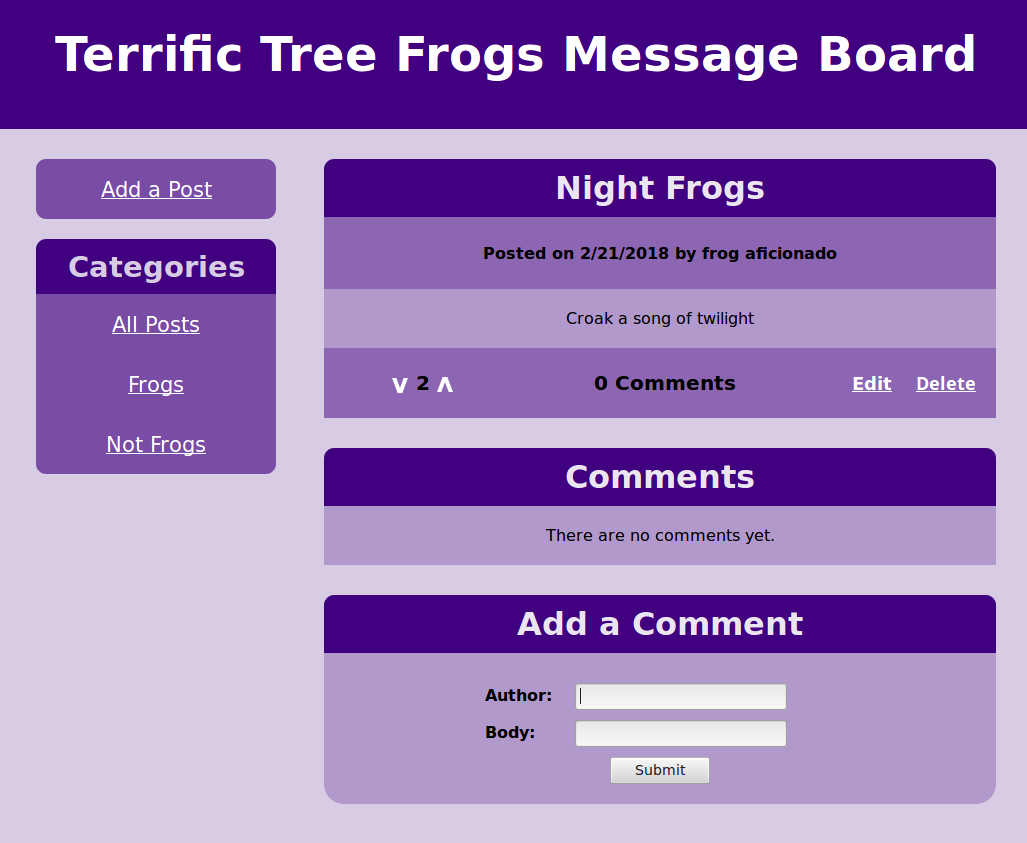
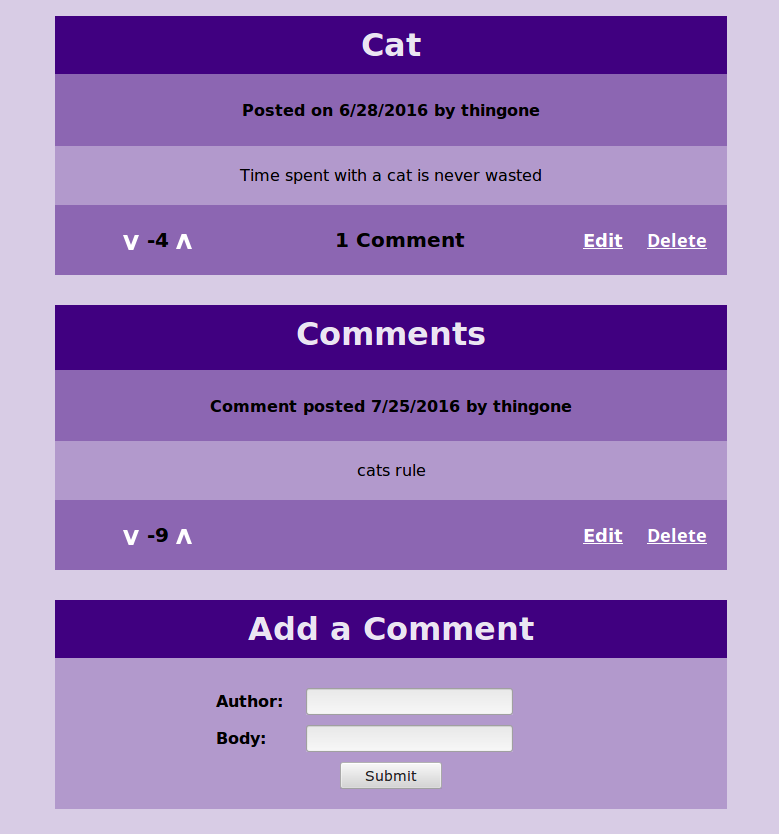
feat: Change layout

diff --git a/frontend/src/components/App.css b/frontend/src/components/App.css
@@ -13,8 +13,7 @@ h3 {
 
 #content {
   width: 70%;
-  float: right;
-  margin: 20px 0 0 0;
+  margin: 20px auto;
 }
 
 .wrapper {
@@ -86,53 +85,48 @@ h3 {
   text-decoration: none;
 }
 
-/* Sidebar */
+/* Top Nav */
 
-#sidebar {
-  margin: 20px 0 0 0;
-  width: 25%;
-  float: left;
-}
-
-#sidebar h1 {
-  background-color: #400080;
-  padding: 10px;
-  border-radius: 10px 10px 0 0;
-  margin: 10px 0 0 0;
-  font-size: 1.8em;
-  color: #d8cce5;
-}
-
-#sidebar .add-post {
-  margin: 10px 0 20px 0;
-  border-radius: 10px;
-}
-
-#sidebar .add-post a:hover {
-  border-radius: 10px;
-}
-
-#sidebar ul {
-  padding: 0;
-  margin: 0 0 20px 0;
-  list-style-type: none;
-  color: #000;
+#nav {
   background-color: #794ca6;
-  border-radius: 0 0 10px 10px;
-}
-
-#sidebar li {
-  line-height: 60px;
-  font-size: 1.3em;
-}
-
-#sidebar ul li a {
-  display: block;
   color: #fff;
+  margin: 0;
+  padding: 10px 0;
+  width: 100%;
 }
 
-#sidebar ul li a:hover {
+#nav .wrapper {
+  display: flex;
+  flex-wrap: wrap;
+  justify-content: space-between;
+  max-width: 860px;
+}
+
+#nav ul {
+  list-style-type: none;
+  margin: 0;
+  padding: 10px 0
+}
+
+#nav li {
+  display: inline;
+  font-size: 1.3em;
+  padding: 0 20px;
+  white-space: nowrap;
+}
+
+#nav ul li a {
+  color: #fff;
+  text-decoration: none;
+  padding: 10px;
+}
+
+#nav ul li a:hover {
   background-color: #400080;
+}
+
+#nav .plus {
+  color: #
 }
 
 /* Post */
@@ -141,7 +135,6 @@ h3 {
   padding: 0;
   margin: 0 0 40px;
   color: #000;
-  border-radius: 10px;
 }
 
 .post h2 {
@@ -149,7 +142,6 @@ h3 {
   padding: 10px;
   margin: 10px 0 0 0;
   font-size: 2em;
-  border-radius: 10px 10px 0 0;
   color: #ebe5f2;
 }
 
@@ -205,10 +197,6 @@ h3 {
   margin: 0;
   padding: 20px;
   background-color: #b299cc;
-}
-
-.add-comment {
-  border-radius: 0 0 20px 20px;
 }
 
 .comment-meta {

diff --git a/frontend/src/components/Nav.js b/frontend/src/components/Nav.js
@@ -1,0 +1,42 @@
+import React, { Component } from 'react';
+import { connect } from 'react-redux';
+import { getCategories, updateSorting } from '../actions';
+
+class Nav extends Component {
+
+  componentDidMount () {
+    this.props.updateCats();
+  }
+
+  render() {
+    return (
+      <aside id="nav">
+        <div className="wrapper">
+          <ul className="nav-add-post">
+            <li key='add'><a href="/add">Add a Post</a></li>
+          </ul>
+          <ul className="nav-sort-posts">
+            <li key='all'><a href={'/'}>All Posts</a></li>
+            {Object.values(this.props.categories)
+              .map(category =>
+                <li key={ category.path }><a href={'/' + category.path }>{ category.name }</a></li>
+              )
+            }
+          </ul>
+        </div>
+      </aside>
+    );
+  }
+}
+
+const mapStateToProps = state => ({
+  categories: state.categories
+});
+
+const mapDispatchToProps = dispatch => ({
+  dispatch,
+  updateCats: () => dispatch(getCategories()),
+  updateSortBy: (sorting) => dispatch(updateSorting(sorting))
+});
+
+export default connect(mapStateToProps, mapDispatchToProps)(Nav);

diff --git a/frontend/src/components/App.js b/frontend/src/components/App.js
@@ -1,7 +1,7 @@
 import React, { Component } from 'react';
 import { Switch, Route } from 'react-router-dom';
 import './App.css';
-import Sidebar from './Sidebar.js';
+import Nav from './Nav.js';
 import Header from './Header.js';
 import PostIndexView from './PostIndexView.js';
 import CategoryView from './CategoryView.js';
@@ -27,9 +27,8 @@ class App extends Component {
     return (
       <div className="App">
         <Header />
-        <div className="wrapper">
-          <Sidebar />
-          <div>
+          <Nav />
+          <div className="wrapper">
             <Switch>
               <Route exact path="/" component={PostIndexView} />
               <Route path='/add' component={AddPost} />
@@ -41,7 +40,6 @@ class App extends Component {
               <Route path="*" component={NotFound404} />
             </Switch>
           </div>
-        </div>
       </div>
     );
   }

diff --git a/frontend/src/components/EditPost.js b/frontend/src/components/EditPost.js
@@ -52,7 +52,7 @@ class EditPost extends Component {
     this.setState({ redirect: true });
   }
 
-  componentWillMount() {
+  componentDidMount() {
     this.props.updatePosts()
       .then(() => this.setState({ isLoaded: true }))
       .then(() => this.checkPostExistence())

diff --git a/frontend/src/components/PostView.js b/frontend/src/components/PostView.js
@@ -12,7 +12,7 @@ class PostView extends Component {
     is404: false
   }
 
-  componentWillMount () {
+  componentDidMount () {
     this.props.updatePosts();
     this.props.updateComments(this.props.match.params.post_id)
       .then(() => this.setState({ isLoaded: true }))

diff --git a/frontend/src/components/EditComment.js b/frontend/src/components/EditComment.js
@@ -47,7 +47,7 @@ class EditComment extends Component {
     this.setState({ redirect: true });
   }
 
-  componentWillMount() {
+  componentDidMount() {
     this.props.updatePosts();
     this.props.updateComments(this.props.match.params.post_id)
       .then(() =>

diff --git a/frontend/src/components/CategoryView.js b/frontend/src/components/CategoryView.js
@@ -12,7 +12,7 @@ class CategoryView extends Component {
     }
   }
 
-  componentWillMount () {
+  componentDidMount () {
     this.props.updateCats();
     this.props.updatePosts();
   }

diff --git a/frontend/src/components/PostIndexView.js b/frontend/src/components/PostIndexView.js
@@ -5,7 +5,7 @@ import SortBy from './SortBy.js';
 
 class PostIndexView extends Component {
 
-  componentWillMount () {
+  componentDidMount () {
     this.props.updatePosts();
   }
 

diff --git a/README.md b/README.md
@@ -53,4 +53,4 @@ The code uses ES6 features and extensively depends on the higher-order .map and 
 ### Future Improvements
 
 - Support uploading images
-
+- Fix hard-coded category rendering logic
